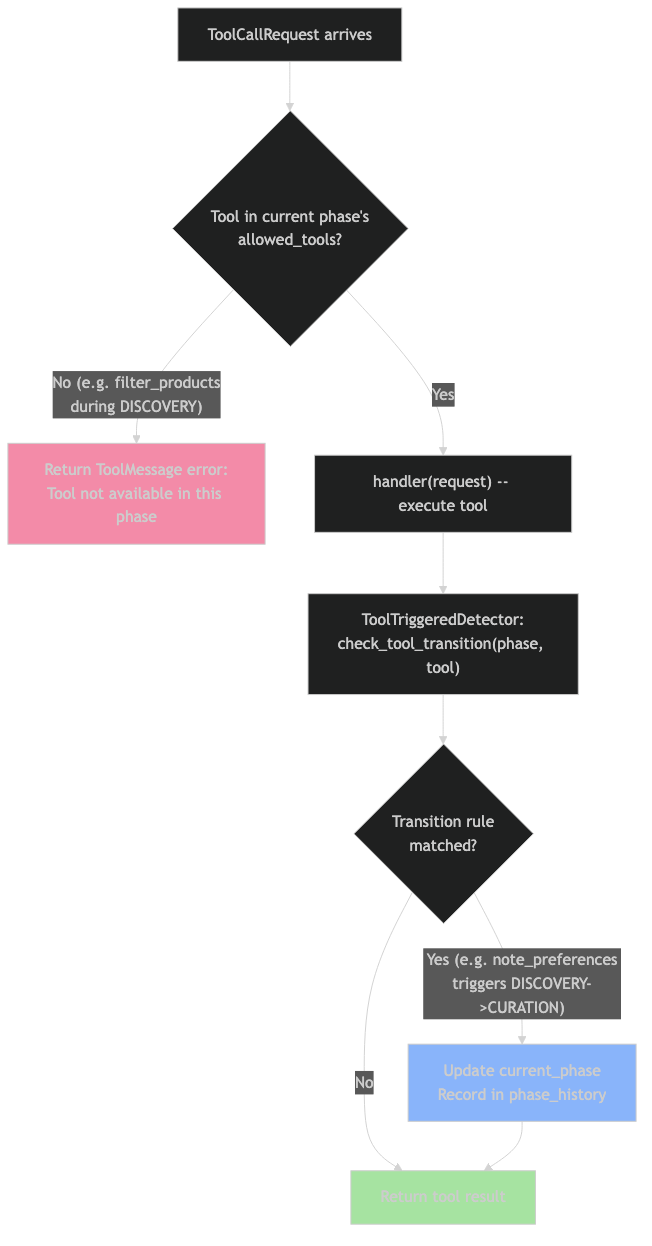
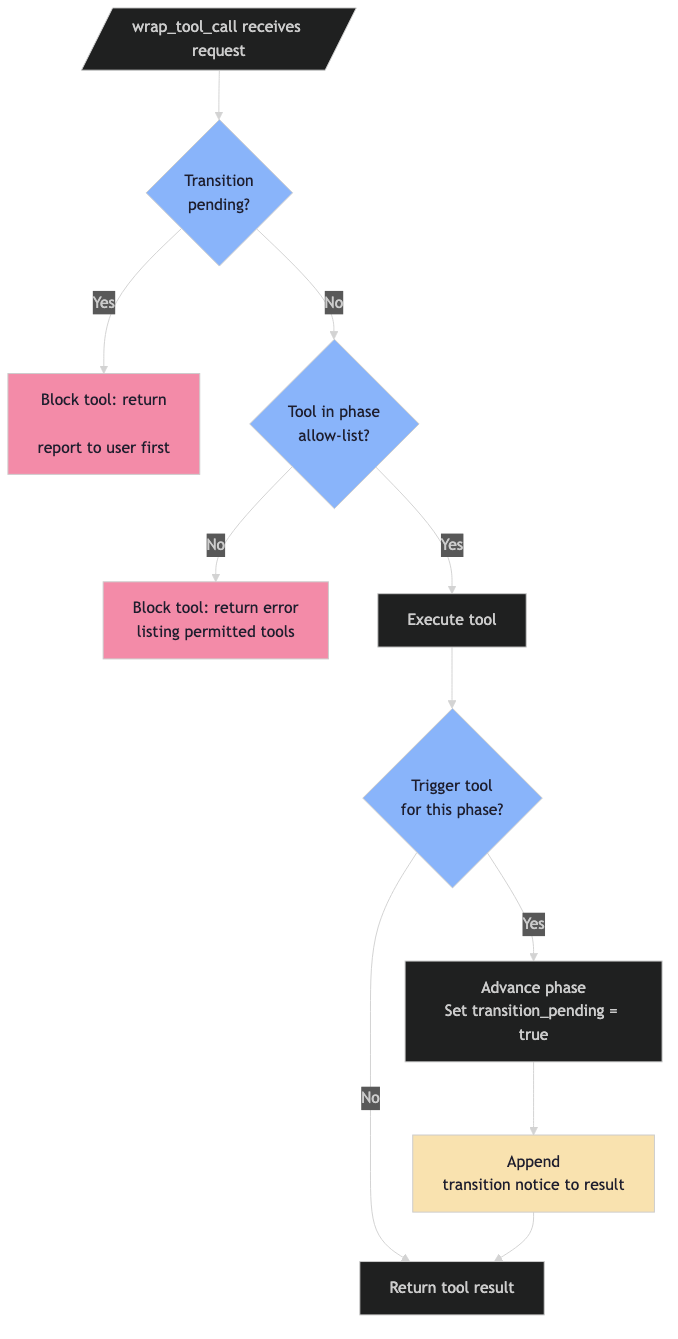
docs: simplified mermaid diagrams focused on decisions and steering
- Color-coded: blue (decisions), yellow (injection), red (blocks)
- Show framework_instruction injection points explicitly
- Phase steering: three sequential gates in wrap_tool_call
- Removed internal variable details, kept flow clarity

diff --git a/python/behavior-steering-middleware/src/bsm_examples/phase_steering/DIAGRAM.md b/python/behavior-steering-middleware/src/bsm_examples/phase_steering/DIAGRAM.md
@@ -4,35 +4,42 @@
 
 ```mermaid
 flowchart TD
-    A[ModelRequest arrives] --> B["Look up PhaseBehavior<br/>for current phase"]
-    B --> C["Build guidance:<br/>&lt;system&gt;[PHASE: Discovery]<br/>Ask questions...<br/>Available tools: browse_catalog, note_preferences&lt;/system&gt;"]
-    C --> D["Append SystemMessage<br/>to request.messages"]
-    D --> E["handler(request) -- call LLM"]
-    E --> F[ModelResponse]
-    F --> G["Increment phase_iteration<br/>and total_iterations"]
-    G --> H["Return ExtendedModelResponse<br/>Command(update={<br/>  current_phase,<br/>  phase_iteration,<br/>  total_iterations<br/>})"]
+    A[/"wrap_model_call receives request"/] --> B["Look up PhaseBehavior<br/>for current phase"]
+    B --> C["Build guidance: phase name,<br/>allowed tools, completion criteria"]
+    C --> D["Inject &lt;framework_instruction&gt;<br/>into last HumanMessage"]
+    D --> E[Call LLM]
+    E --> F["Increment iteration counters"]
+    F --> G[Return state updates]
 
-    style C fill:#f9e2af
-    style D fill:#f9e2af
-    style H fill:#a6e3a1
+    style D fill:#f9e2af,color:#1e1e2e
 ```
 
-## wrap_tool_call -- Enforce Allow-Lists and Trigger Transitions
+## wrap_tool_call -- Gate Tools and Trigger Transitions
 
 ```mermaid
 flowchart TD
-    A[ToolCallRequest arrives] --> B{"Tool in current phase's<br/>allowed_tools?"}
-    B -- "No (e.g. filter_products<br/>during DISCOVERY)" --> C["Return ToolMessage error:<br/>Tool not available in this phase"]
-    B -- Yes --> D["handler(request) -- execute tool"]
-    D --> E["ToolTriggeredDetector:<br/>check_tool_transition(phase, tool)"]
-    E --> F{"Transition rule<br/>matched?"}
-    F -- "Yes (e.g. note_preferences<br/>triggers DISCOVERY->CURATION)" --> G["Update current_phase<br/>Record in phase_history"]
-    F -- No --> H[Return tool result]
-    G --> H
+    A[/"wrap_tool_call receives request"/] --> B{"Transition<br/>pending?"}
 
-    style C fill:#f38ba8
-    style G fill:#89b4fa
-    style H fill:#a6e3a1
+    B -- Yes --> C["Block tool: return<br/>&lt;framework_instruction&gt;<br/>report to user first"]
+
+    B -- No --> D{"Tool in phase<br/>allow-list?"}
+    D -- No --> E["Block tool: return error<br/>listing permitted tools"]
+
+    D -- Yes --> F[Execute tool]
+    F --> G{"Trigger tool<br/>for this phase?"}
+
+    G -- Yes --> H["Advance phase<br/>Set transition_pending = true"]
+    H --> I["Append &lt;framework_instruction&gt;<br/>transition notice to result"]
+
+    G -- No --> J[Return tool result]
+    I --> J
+
+    style B fill:#89b4fa,color:#1e1e2e
+    style D fill:#89b4fa,color:#1e1e2e
+    style G fill:#89b4fa,color:#1e1e2e
+    style C fill:#f38ba8,color:#1e1e2e
+    style E fill:#f38ba8,color:#1e1e2e
+    style I fill:#f9e2af,color:#1e1e2e
 ```
 
 ## Phase Progression
@@ -50,3 +57,8 @@ stateDiagram-v2
     RECOMMENDATION : present_recommendation
     COMPLETE : (no tools)
 ```
+
+## Lifecycle Note
+
+The `before_agent` hook clears `transition_pending` at the start of each agent
+invocation, reopening the tool gate for the new phase.

diff --git a/python/behavior-steering-middleware/src/bsm_examples/turn_urgency/DIAGRAM.md b/python/behavior-steering-middleware/src/bsm_examples/turn_urgency/DIAGRAM.md
@@ -1,33 +1,37 @@
-# Shopping Recommendation Agent -- Turn Urgency
+# Turn Urgency Middleware
 
 ```mermaid
 flowchart TD
-    A[ModelRequest arrives] --> B["UrgencyCalculator:<br/>count turns from messages"]
-    B --> C{"Determine level<br/>from remaining ratio"}
-    C --> D["EXPLORATION<br/>remaining > 60%"]
-    C --> E["BALANCED<br/>30-60%"]
-    C --> F["EFFICIENCY<br/>1-30%"]
-    C --> G["TERMINAL<br/>0% remaining"]
+    A[/"wrap_model_call receives request"/] --> B["Count turns from message history"]
+    B --> C{"Determine urgency level<br/>from remaining budget"}
 
-    D --> H["Build guidance:<br/>&lt;system&gt;URGENCY: EXPLORATION...&lt;/system&gt;"]
+    C --> D["EXPLORATION > 60%"]
+    C --> E["BALANCED 30-60%"]
+    C --> F["EFFICIENCY 1-30%"]
+    C --> G["TERMINAL 0%"]
+
+    D --> H
     E --> H
     F --> H
-    G --> I{"TERMINAL AND<br/>recommend_product<br/>not yet called?"}
-    I -- Yes --> J["Append forceful escalation:<br/>You MUST call recommend_product NOW"]
-    I -- No --> H
-    J --> H
 
-    H --> K["Append SystemMessage<br/>to request.messages"]
-    K --> L["handler(request) -- call LLM"]
-    L --> M[ModelResponse]
-    M --> N{"Scan response for<br/>recommend_product<br/>tool call"}
-    N -- Found --> O["completion_tool_seen = True"]
-    N -- Not found --> P[No change]
-    O --> Q["Return ExtendedModelResponse<br/>Command(update={<br/>  urgency_level,<br/>  turns_used,<br/>  turns_remaining,<br/>  is_terminal,<br/>  completion_tool_called<br/>})"]
-    P --> Q
+    G --> I{"Completion tool<br/>already called?"}
+    I -- No --> J["Append forceful escalation:<br/>You MUST call completion tool NOW"]
+    I -- Yes --> H
 
-    style J fill:#f38ba8
-    style H fill:#f9e2af
-    style K fill:#f9e2af
-    style Q fill:#a6e3a1
+    J --> H["Build urgency guidance"]
+    H --> K["Inject &lt;framework_instruction&gt;<br/>into last Human/ToolMessage"]
+
+    K --> L[Call LLM]
+    L --> M{"Scan response for<br/>completion tool call"}
+
+    M -- Found --> N["Mark completion tool seen"]
+    M -- Not found --> O[No change]
+
+    N --> P[Return state updates]
+    O --> P
+
+    style C fill:#89b4fa,color:#1e1e2e
+    style I fill:#89b4fa,color:#1e1e2e
+    style K fill:#f9e2af,color:#1e1e2e
+    style J fill:#f38ba8,color:#1e1e2e
 ```

diff --git a/python/behavior-steering-middleware/src/bsm_examples/drift_detection/DIAGRAM.md b/python/behavior-steering-middleware/src/bsm_examples/drift_detection/DIAGRAM.md
@@ -2,23 +2,25 @@
 
 ```mermaid
 flowchart TD
-    A[ModelRequest arrives] --> B{CheckInDetector:<br/>should_intervene?}
-    B -- "turns_since_target >= max_silent_turns<br/>AND cooldown elapsed<br/>AND interventions < max" --> C["Build reminder from template<br/>&lt;system&gt;...use send_message...&lt;/system&gt;"]
-    C --> D["Append SystemMessage<br/>to request.messages"]
-    D --> E[record_intervention]
-    B -- No --> F[Pass request through]
-    E --> F
-    F --> G["handler(request) -- call LLM"]
-    G --> H[ModelResponse]
-    H --> I["record_turn(response.result)<br/>Scan AIMessage.tool_calls for target_tool"]
-    I --> J{"Target tool<br/>found?"}
-    J -- Yes --> K["Reset turns_since_target = 0"]
-    J -- No --> L["Increment turns_since_target"]
-    K --> M["Return ExtendedModelResponse<br/>Command(update={<br/>  turns_since_check_in,<br/>  intervention_count<br/>})"]
-    L --> M
+    A[/"wrap_model_call receives request"/] --> B{"should_intervene?<br/>silent turns >= threshold<br/>AND budget remaining<br/>AND cooldown elapsed"}
 
-    style C fill:#f9e2af
-    style D fill:#f9e2af
-    style E fill:#f9e2af
-    style M fill:#a6e3a1
+    B -- Yes --> C[/"Build reminder from template"/]
+    C --> D["Inject &lt;framework_instruction&gt;<br/>into last Human/ToolMessage"]
+    D --> E["Record intervention<br/>(increment count, reset cooldown)"]
+
+    B -- No --> F
+
+    E --> F[Call LLM]
+    F --> G["Scan response for<br/>target tool call"]
+
+    G --> H{"Target tool<br/>found?"}
+    H -- Yes --> I["Reset silent turn counter"]
+    H -- No --> J["Increment silent turn counter"]
+
+    I --> K[Return state updates]
+    J --> K
+
+    style B fill:#89b4fa,color:#1e1e2e
+    style D fill:#f9e2af,color:#1e1e2e
+    style E fill:#f9e2af,color:#1e1e2e
 ```
